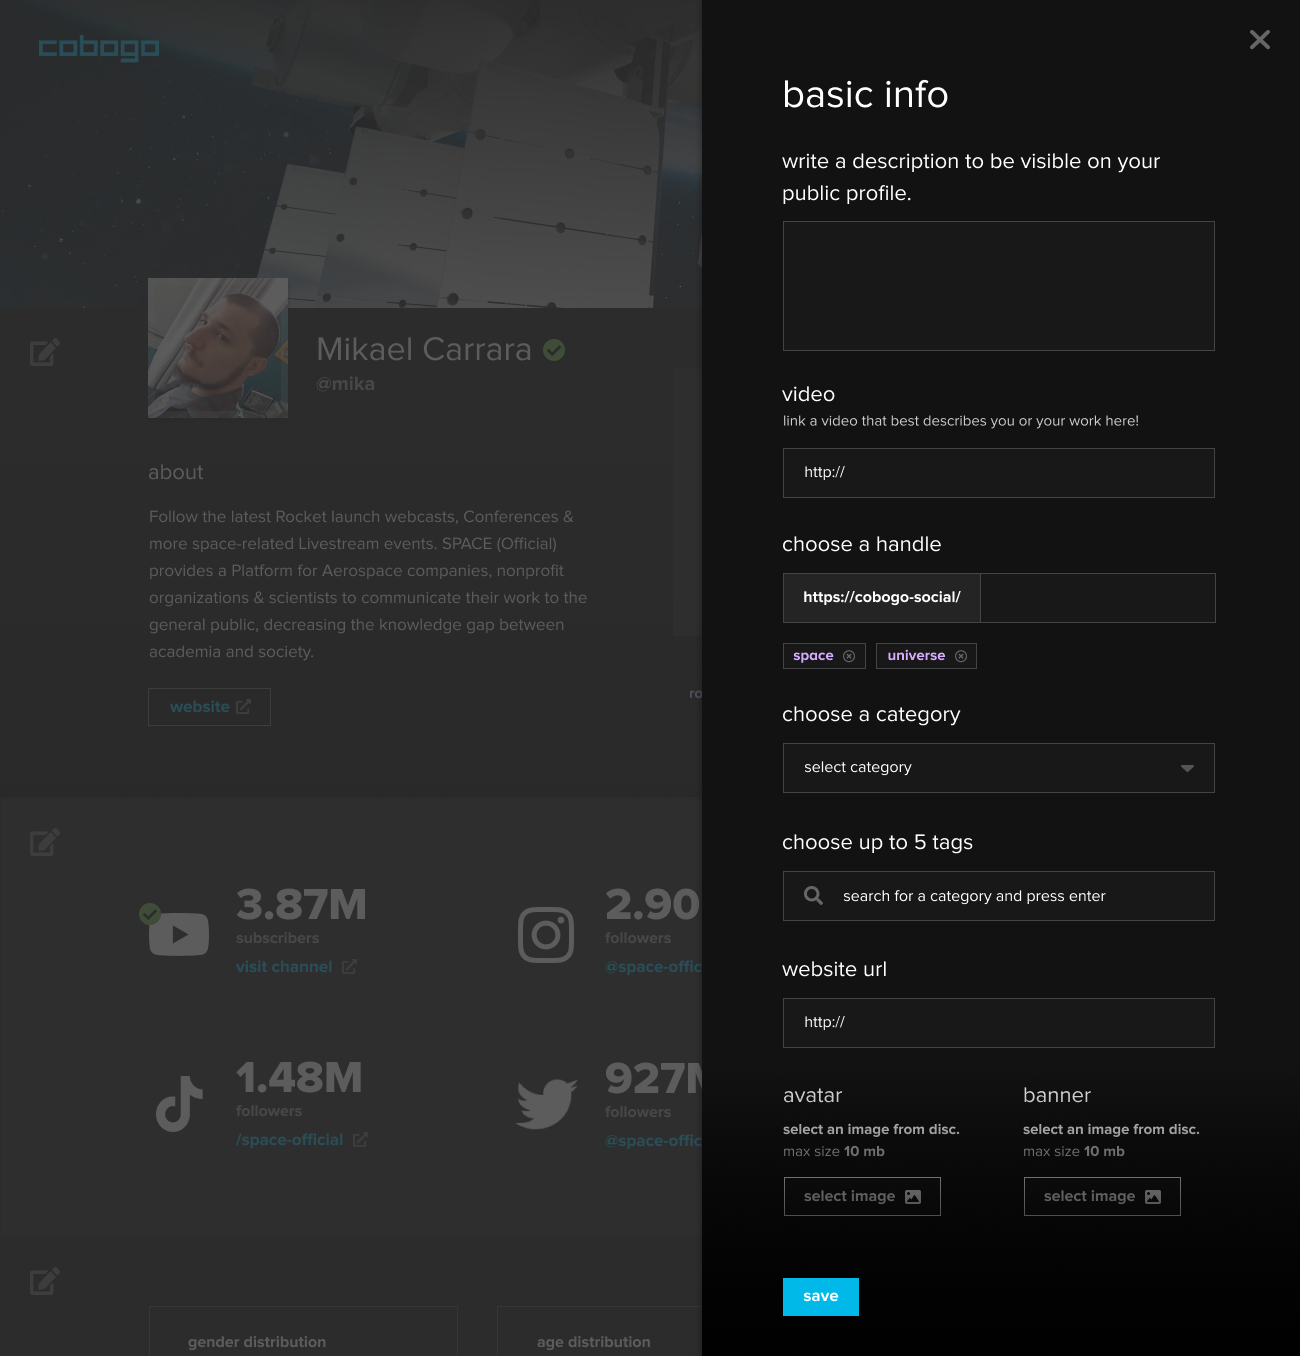
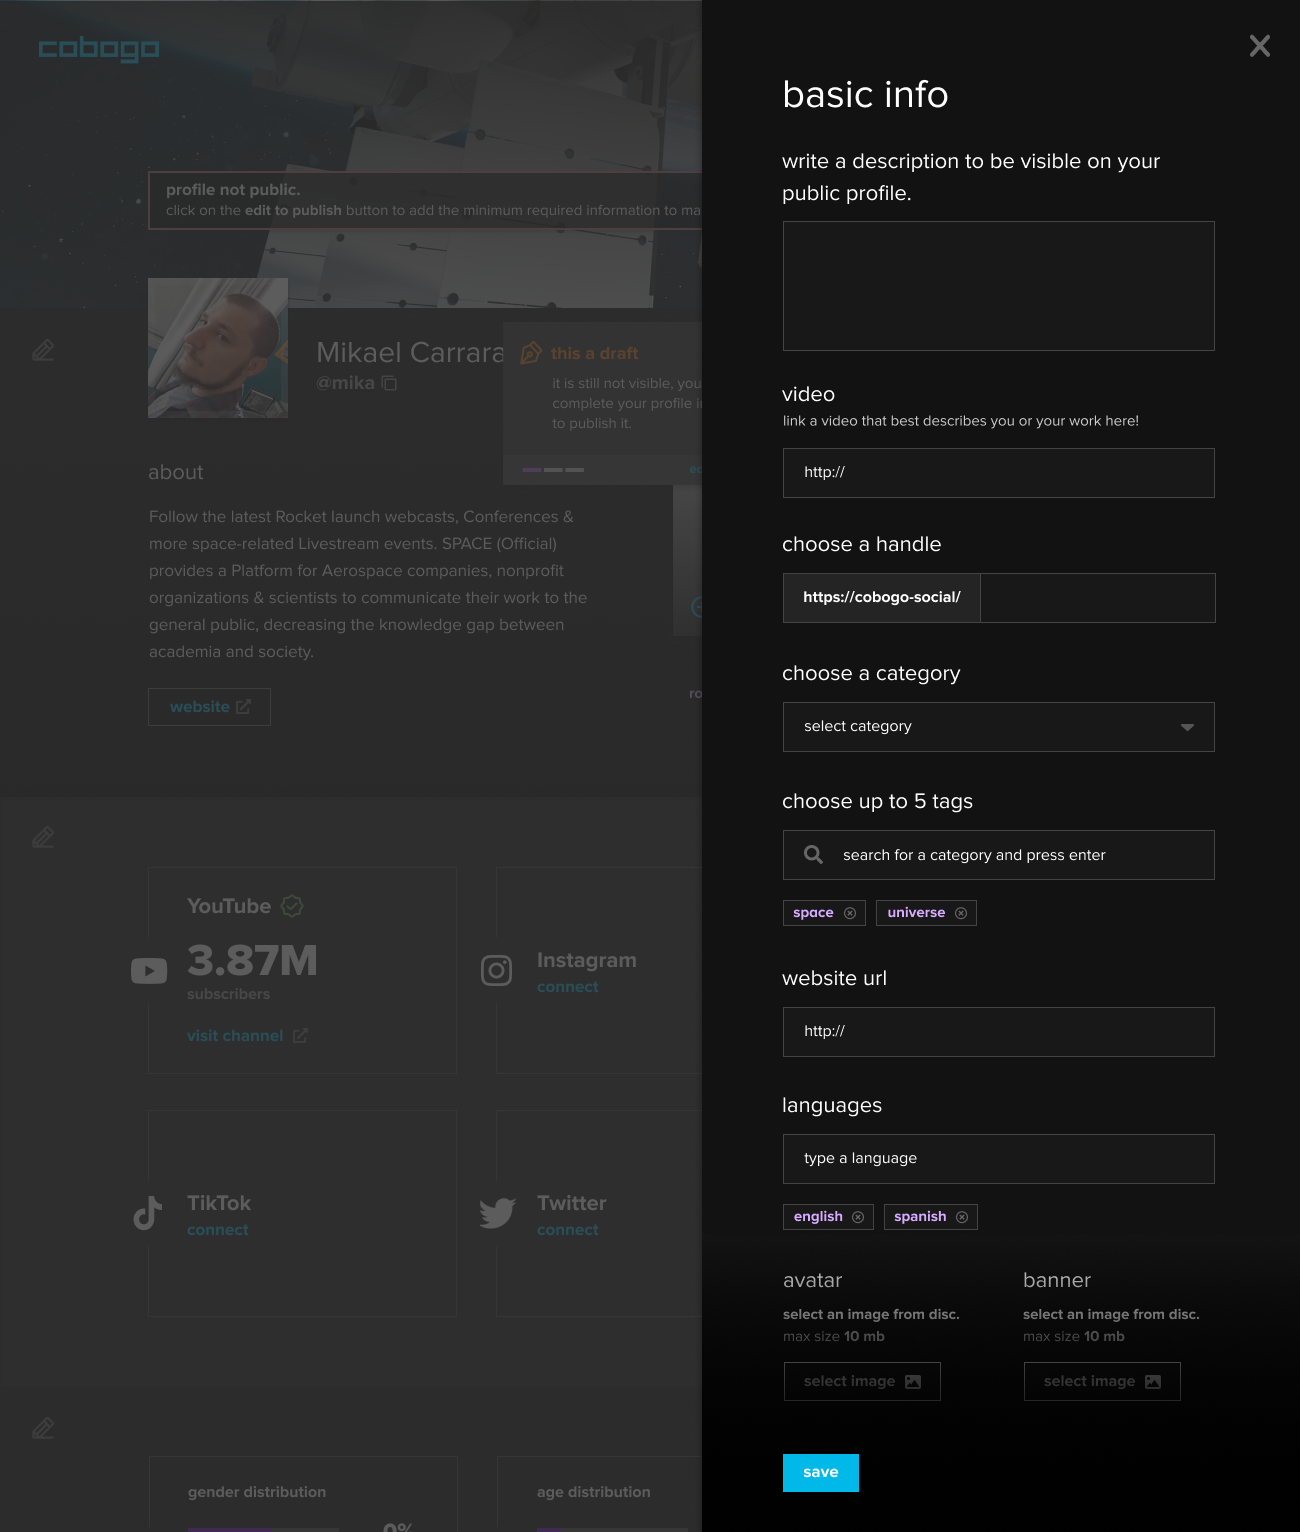
GitBook: [#260] No subject

diff --git a/youtubers/making-your-profile.md b/youtubers/making-your-profile.md
@@ -14,7 +14,36 @@ After **connecting your channel** and onboarding cobogo, you can update the Basi
 4. Choose the **general category** of your channel or the content you produce.
 5. Then, you can expand on some **other categories** that fit you, with up to 5 tags.
 6. In "website url" you can link your **preferred website** (LinkedIn, YouTube, GitHub, it's up to you!)
-7. In avatar, you can choose your **Profile Picture.**
-8. For the profile's banner, **1280x308** is the ideal size.
+7. For **languages**, you can set up one or more languages your speak, or produce content in.
+8. In avatar, you can choose your **Profile Picture.**
+9. For the profile's banner, **1280x308** is the ideal size.
 
 ![](<../.gitbook/assets/Profile v3 - Modal - Basic Infos (1).png>)
+
+### Social Media
+
+After editing your basic information, you can add your social media numbers.&#x20;
+
+At first, you'll have to add the number of followers, subscribers, average views, etc, manually, but we are working on having that updated automatically once you connect it to the social media.
+
+You can do that to YouTube, Instagram, Twitch, TikTok, Discord, Telegram, and Twitter.
+
+![](<../.gitbook/assets/Profile v3 - Modal - Media Kit - Social (1).png>)
+
+### Analytics
+
+You can also edit the analytics in your profile. This section allows brands to get a **quick overview** of your audience, to see if you match what they are looking for.
+
+All you have to do is click and scroll in the **gender distribution**, **age distribution**, and **top countries** sections.
+
+![](<../.gitbook/assets/Profile v3 - Modal - Media Kit - Analytics - 01.png>)
+
+### Services
+
+In this section, you can add the **services you can offer** to brands, just like you would in a **Media Kit**.&#x20;
+
+We recommend using a title that **draws people's attention**, and an easily comprehensible description of what you do in that specific service.&#x20;
+
+There's also an option to add a cover to that service, which can help making your Profile look more like you. **Be creative**!
+
+![](<../.gitbook/assets/Profile v3 - Modal - New Service (1).png>)
